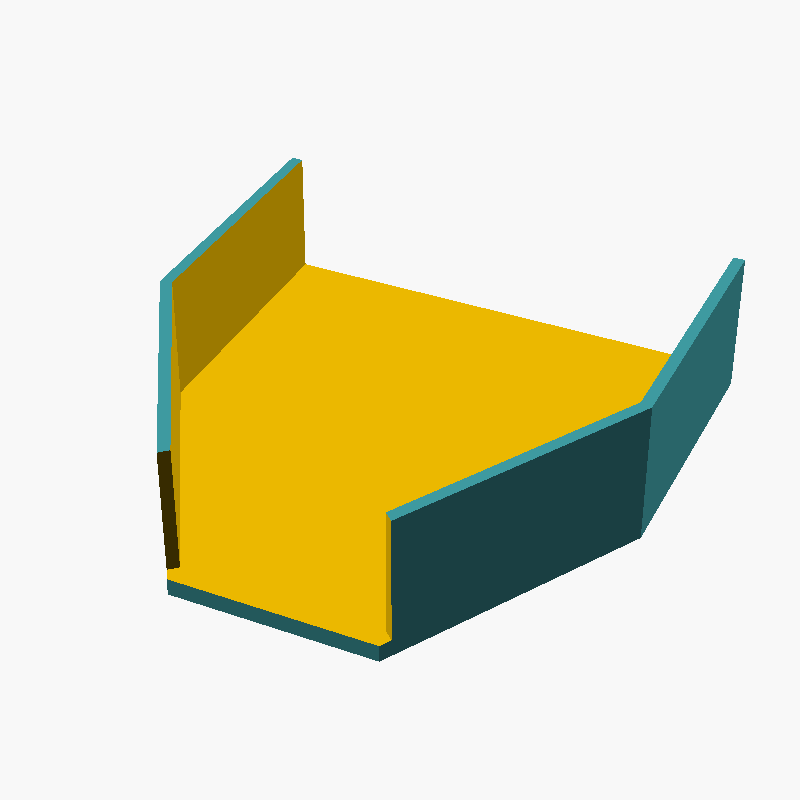
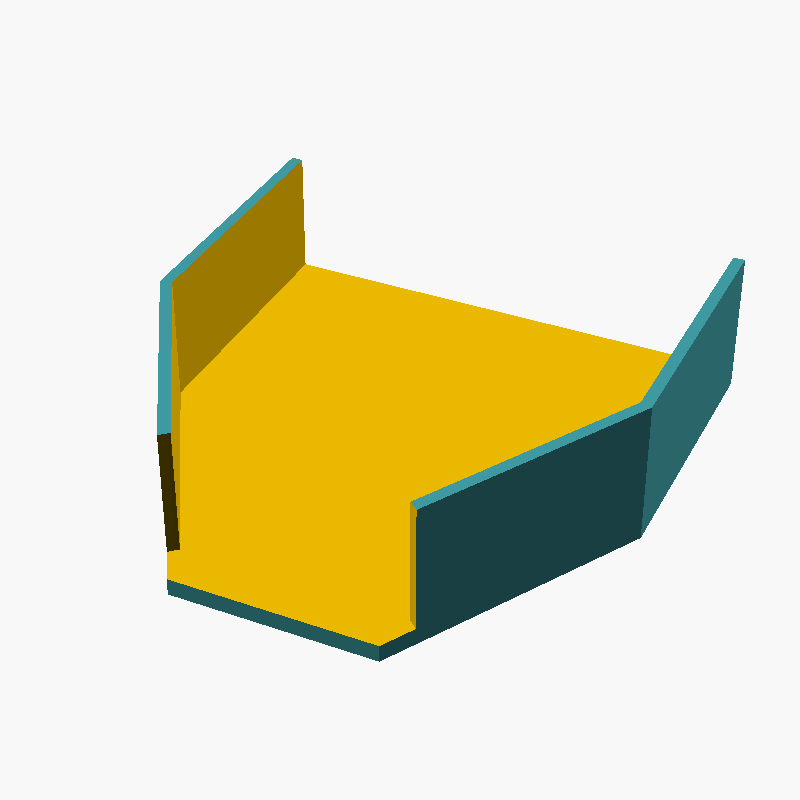
Fix case/hopper interference and shroud overlap at the outlet
Cody asked whether cases would jam in the curved part of the hopper.
Checking the numbers found two real defects there, neither of them
friction:

1. A case seated in a scallop reaches r=29.8 (its centre sits ON the
   rim, so it protrudes half a case past the wheel's surface), but the
   hopper's outlet was cut to the wheel at r=27. That is a 2.8mm hard
   interference exactly where a loaded scallop leaves the pile -- the
   case fouls the hopper wall on its way out.
2. The shroud spanned 100-250 degrees while the hopper's exposure
   window runs 45-135, so the two parts occupied the same space over a
   35 degree overlap.

Both now derive from one shared RETAIN_R, so the hopper's outlet and
the shroud's inner face are flush with no step to catch on, and the
shroud starts exactly where the exposure window ends. The radius is
bounded from both sides and asserted: wide enough to clear a seated
case, narrow enough (6.2 vs 9.6mm) that loose cases can't escape the
pile through the annular gap.

Arching is left as a flagged risk rather than fixed. The outlet chord
is 3.7x case diameter where hopper practice wants 4-6x, but the rule
assumes static walls and here the floor is a rotating agitator, so the
number is marginal rather than wrong. Documented with the exposure
angles that would reach 4x and 5x if it bridges on the bench.

Changed region(s): [[0.4688, 0.625, 0.5312, 0.8125], [0.1875, 0.5312, 0.2188, 0.625], [0.1875, 0.6875, 0.25, 0.7188]]

diff --git a/docs/DESIGN.md b/docs/DESIGN.md
@@ -123,10 +123,25 @@ hopper pan feeds a scalloped-rim wheel that singulates cases off the bottom of t
 - **Back plate**: the hopper's floor continued underneath the wheel. It's what the case *base* rides
   on — so the plate does the axial job and the rim scallop does the lateral one. A case carried
   round keeps its base sliding on this plate until it reaches the plate's discharge hole.
-- **Shroud**: an arc wall following the rim at a small clearance, from just past the outlet round to
+- **Shroud**: an arc wall following the rim, from where the hopper's exposure window ends round to
   the discharge. Without it a captured case would simply roll back out of its scallop as the wheel
   turned away from the pile. **Where the shroud ends is the release point** — the case is no longer
   held, and drops through the discharge hole into the chute.
+- **One retaining radius for everything beside the wheel.** A case seated in a scallop has its
+  centre *on* the rim, so it sticks out half a case-width past the wheel's own surface. Anything
+  running beside the wheel must therefore clear `POCKET_ORBIT_R + CASE_RIM_D/2`, not just the
+  wheel's radius — sizing the hopper's outlet to the wheel instead put a 2.8mm interference right
+  where a loaded scallop leaves the pile, so the case fouled the hopper wall on its way out. The
+  hopper's outlet and the shroud's inner face now share a single `RETAIN_R`, which makes them flush
+  with no step to catch on, and it's bounded from both sides: wide enough to clear a seated case,
+  narrow enough (6.2mm vs. a 9.6mm case) that loose cases can't escape the pile through the gap.
+  Both bounds are asserted.
+- **Arching is the remaining open risk.** The outlet chord is 3.7× the case diameter, where hopper
+  practice generally wants 4–6× before bridging stops being likely. It's deliberately *not*
+  asserted — the number is marginal rather than wrong, and the rule assumes static walls whereas
+  here the outlet's floor is a rotating wheel continuously agitating the pile, with smooth
+  non-cohesive brass. If it does bridge on the bench, widening `SINGULATOR_EXPOSURE_ANGLE` widens
+  the chord: ~100° reaches 4×, ~147° reaches 5×.
 - **Open-loop timing**: the firmware only needs to run the wheel long enough to guarantee a scallop
   passes both the hopper outlet and the discharge at least once
   (`feed_run_time_ms`/`feed_speed_rps` in `profile.c`) — no feed-confirmation sensor needed, matching
